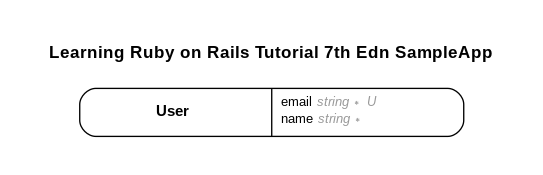
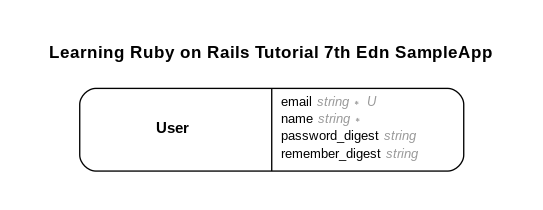
9.2 Remember me checkbox

diff --git a/app/assets/stylesheets/custom.scss b/app/assets/stylesheets/custom.scss
@@ -194,6 +194,15 @@ input {
   }
 }
 
+.checkbox {
+  margin-top: -10px;
+  margin-bottom: 10ox;
+  span {
+    margin-left: 20px;
+    font-weight: normal;
+  }
+}
+
 /* dropdown menu */
 
 .dropdown-menu.active {

diff --git a/app/controllers/sessions_controller.rb b/app/controllers/sessions_controller.rb
@@ -9,7 +9,8 @@ class SessionsController < ApplicationController
 
     if user&.authenticate(params[:session][:password])
       reset_session
-      remember user
+      params[:session][:remember_me] == '1' ? remember(user) : forget(user)
+
       log_in user
       redirect_to user
     else

diff --git a/CHANGELOG.md b/CHANGELOG.md
@@ -5,7 +5,7 @@ All notable changes to this project will be documented in this file.
 The format is based on [Keep a Changelog](https://keepachangelog.com/en/1.0.0/),
 and this project adheres to [Semantic Versioning](https://semver.org/spec/v2.0.0.html).
 
-About to start [Chapter 9.2 Remember me checkbock](https://www.learnenough.com/ruby-on-rails-7th-edition-tutorial/advanced_login#sec-remember_me_checkbox)
+About to start [Chapter 9.2 Remember tests](https://www.learnenough.com/ruby-on-rails-7th-edition-tutorial/advanced_login#sec-remember_tests)
 
 ## TODO
 
